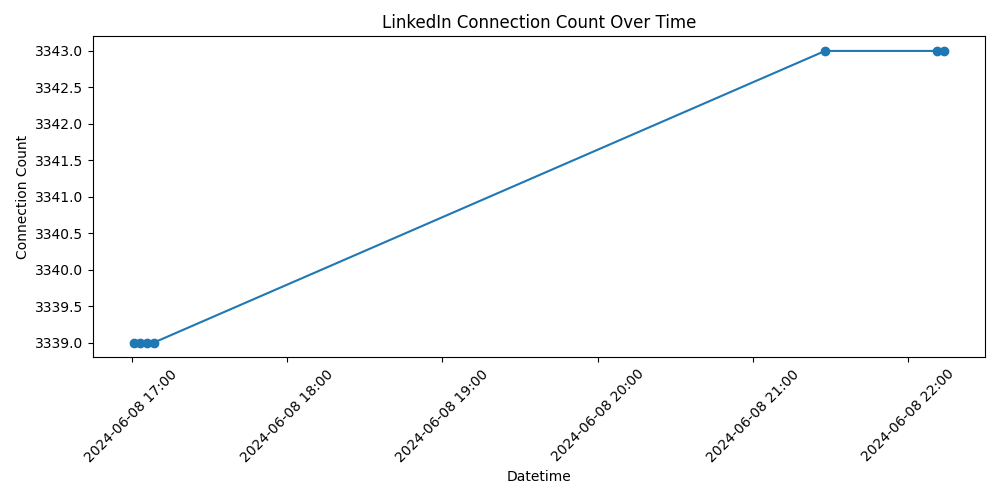
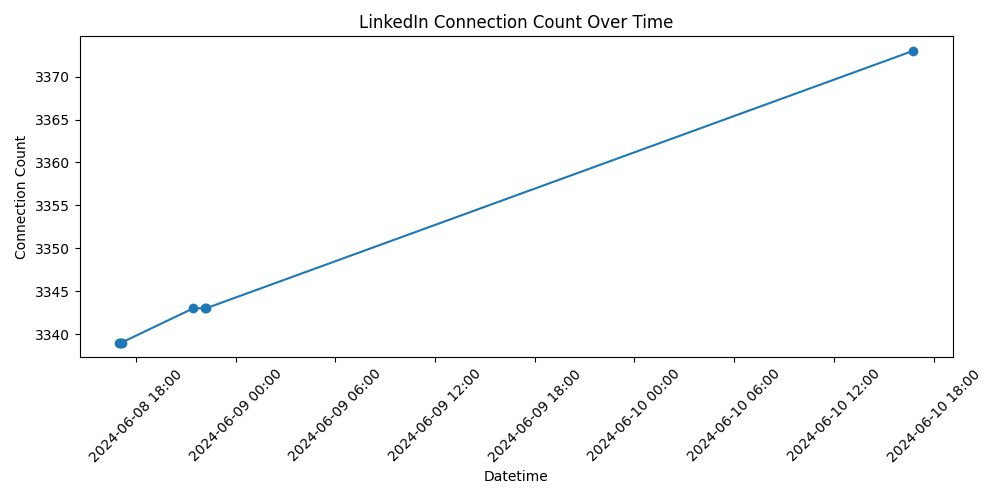
added option to self report data

diff --git a/main.py b/main.py
@@ -125,6 +125,10 @@ def push_to_github():
     os.system("git commit -m 'Update connection count'")
     os.system("git push")
 
+def insert_custom_amount(c: sqlite3.Cursor) -> None:
+    amount = int(input("Enter the amount of connections: "))
+    add_connection_data_to_db(c, amount)
+
 def main():
     username, password = get_credentials()
     
@@ -154,5 +158,15 @@ def main():
         push_to_github()
 
 if __name__ == "__main__":
-    main()
+    # main()
     # clear_db()
+
+    conn, c = connect_to_db()
+    insert_custom_amount(c)
+
+    conn.commit()
+
+    snapshot = get_connection_data_from_db(c)
+    plot_connection_data(snapshot)
+
+    conn.close()
